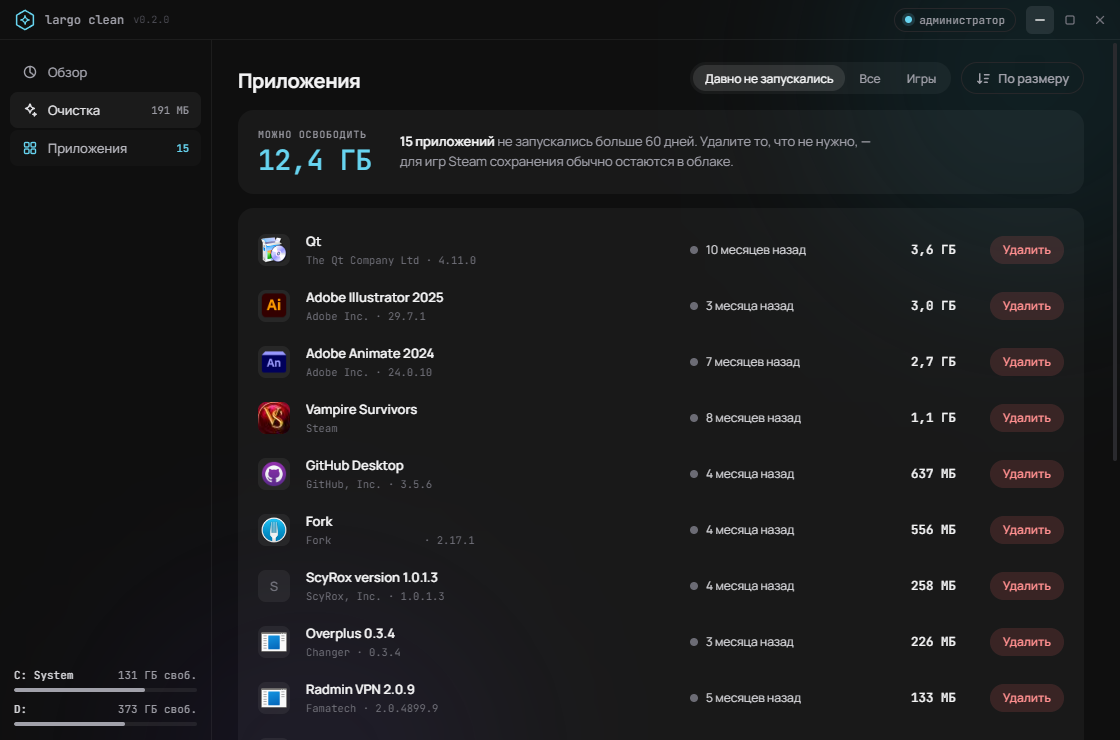
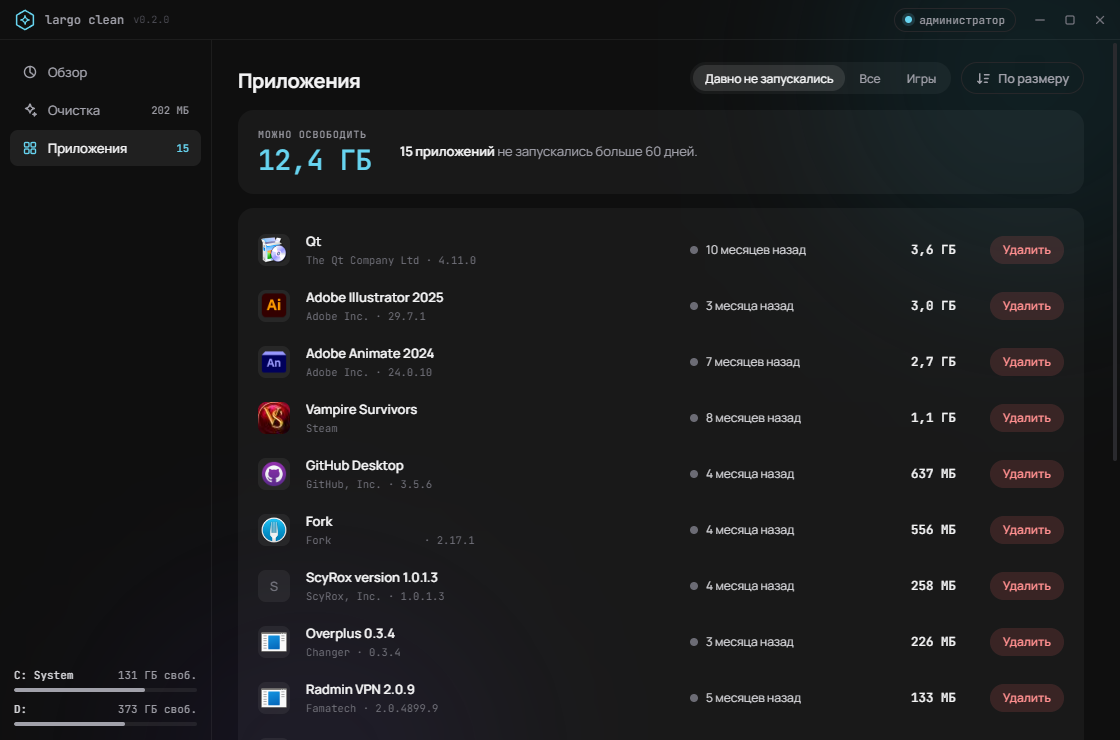
Убрать подсказку под числом неиспользуемых приложений

Changed region(s): [[0.3438, 0.1865, 0.7812, 0.2486], [0.0312, 0.1865, 0.125, 0.2176], [0.0312, 0.1243, 0.0938, 0.1554]]

diff --git a/public/app.js b/public/app.js
@@ -599,7 +599,7 @@ function renderApps() {
   const hero = $("apps-hero-text");
   hero.replaceChildren(
     unused.length
-      ? h("span", {}, h("b", {}, `${unused.length} ${plural(unused.length, "приложение", "приложения", "приложений")}`), ` не запускались больше ${UNUSED_DAYS} дней. Удалите то, что не нужно, — для игр Steam сохранения обычно остаются в облаке.`)
+      ? h("span", {}, h("b", {}, `${unused.length} ${plural(unused.length, "приложение", "приложения", "приложений")}`), ` не запускались больше ${UNUSED_DAYS} дней.`)
       : h("span", {}, "Все программы, о которых есть данные, запускались за последние два месяца.")
   );
   $("tip-apps-num").textContent = unused.length ? fmtBytes(unusedSize) : "0";
